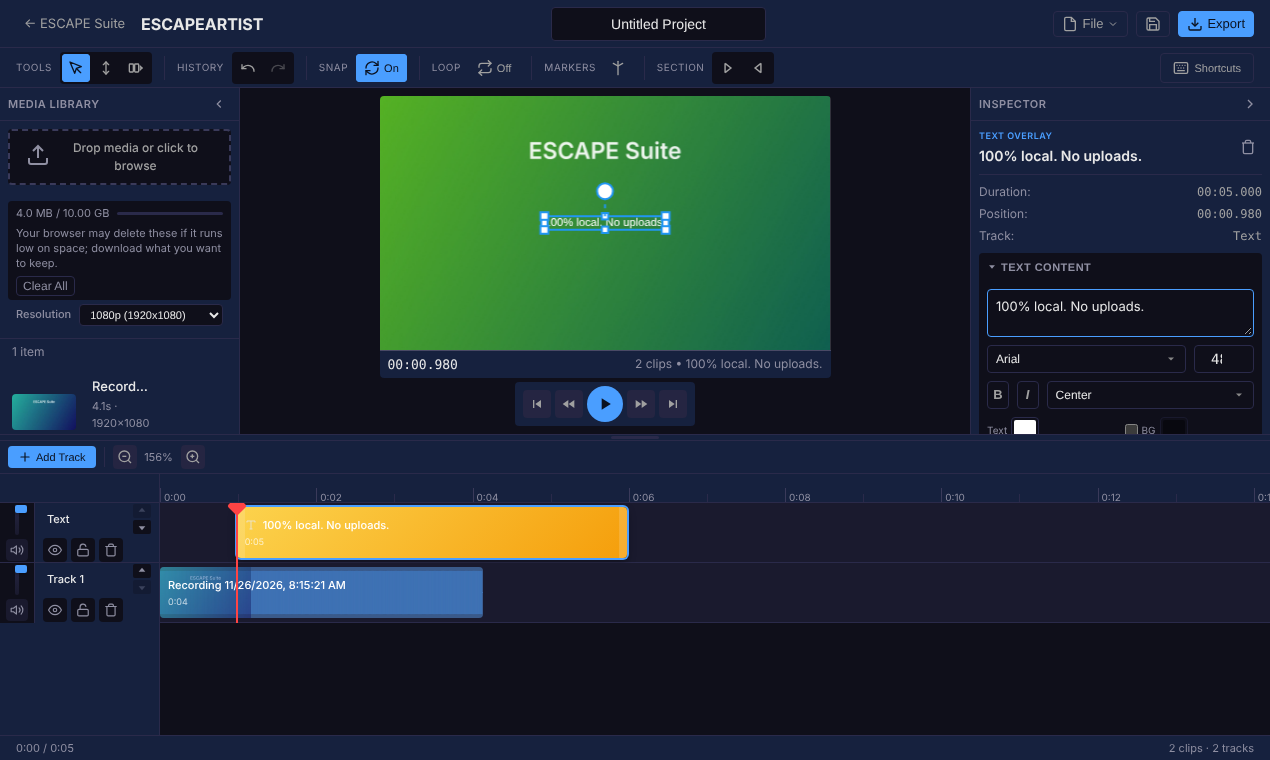
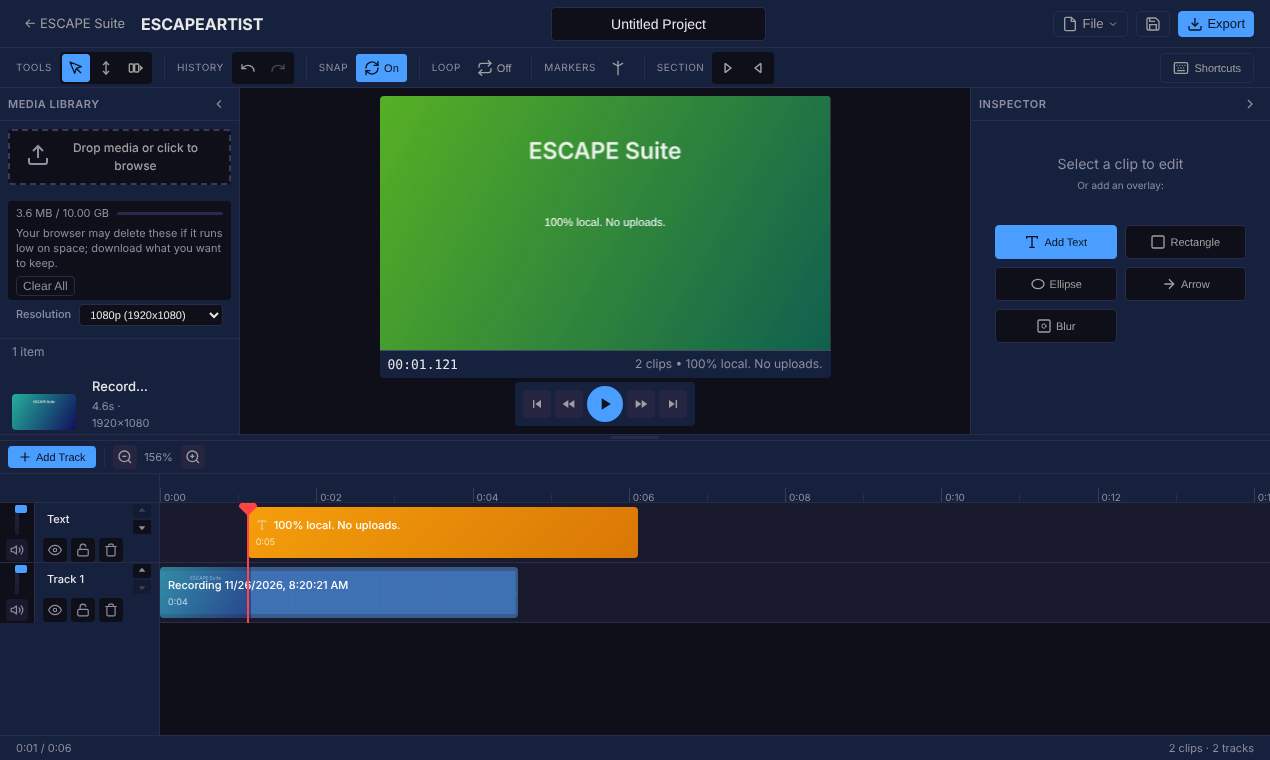
docs: review fixes to the Product Hunt kit (ESCSUITE-527)
Offline build is two HTML files, hosted-site analytics stated, claims
narrowed, overlay deselected in the editing shot.

Claude-Session: https://claude.ai/code/session_01X7igXaAzdW7dXQjKqYvasN

diff --git a/docs/launch/product-hunt.md b/docs/launch/product-hunt.md
@@ -11,9 +11,11 @@ Ticket: ESCSUITE-527.
 **Launch link:** `https://escapesuite.tech`
 
 This is the only place the link is written; everything below says "the launch link".
-escapesuite.tech already serves the apps (escapesuite.io forwards to it), but the work that
-makes it the canonical host in the site's own tags and files (Ticket: ESCSUITE-506) has not
-landed yet. Check that it has before scheduling, so the link never changes after launch.
+When you paste a draft, put the link itself where it says "the launch link".
+escapesuite.tech already serves the apps, escapesuite.io forwards to it, and the hub's
+canonical tags name it; the last references to the old host are tracked as Ticket:
+ESCSUITE-506. Check that it is finished before scheduling, so the link never changes after
+launch.
 If the launch host changes, edit the line above and nothing else.
 
 The no-signup "try it" paths, all under the launch link:
@@ -24,7 +26,8 @@ The no-signup "try it" paths, all under the launch link:
 | Record (ESCAPECRAFT) | `/craft/` |
 | Edit (ESCAPEARTIST) | `/artist/` |
 
-The offline single-file build is on the GitHub releases page; the hub links to it.
+The offline builds (one self-contained HTML file each for ESCAPECRAFT and ESCAPEARTIST)
+are on the GitHub releases page; the hub's "All downloads" link goes there.
 
 ## Form limits, as checked on 2026-11-26
 
@@ -63,11 +66,11 @@ Pick one (character counts in brackets):
 > ESCAPE Suite is a free, open-source screen recorder and video editor that runs entirely
 > in your browser. Record your screen, webcam and microphone, trim the mistakes, blur
 > anything sensitive, add captions and text, and export WebM, MP4 or GIF. Your footage
-> is never uploaded: no account, no sign-up, no server doing the work. There is also a single
-> HTML file you can copy onto an air-gapped network and open with no internet at all.
-> Apache-2.0.
+> is never uploaded: no account, no sign-up, no server doing the work. The recorder and
+> editor also come as single HTML files you can copy onto an air-gapped network and open
+> with no internet at all. Apache-2.0.
 
-(444 characters.)
+(466 characters.)
 
 ## Launch tags
 
@@ -116,21 +119,26 @@ length.
 
 > Hi Product Hunt! I'm Matty, and I made ESCAPE Suite.
 >
-> Most screen recorders want you to upload your
-> footage to someone else's server before you can trim it or share it. That's a
-> non-starter when the thing on your screen is an internal system, a customer's data, or
-> a network that isn't connected to the internet in the first place.
+> Many online screen recorders upload your footage to their own servers before you can
+> trim it or share it. That's a non-starter when the thing on your screen is an internal
+> system, a customer's data, or a network that isn't connected to the internet in the
+> first place.
 >
 > So ESCAPE Suite does all of it in the browser. ESCAPECRAFT records your screen, webcam
 > and microphone; ESCAPEARTIST trims, blurs, captions and exports to WebM, MP4 or GIF.
 > Every frame is processed on your own machine. There's no account and nothing to
-> install, and if you need it on an air-gapped network, the whole editor is one HTML file
-> you can copy across and open offline.
+> install, and if you need it on an air-gapped network, the recorder and the editor are
+> each one HTML file you can copy across and open offline.
+>
+> To be straight about what does touch a network: the hosted site counts page views and a
+> few events (like "Export Completed") with Vercel Web Analytics. Nothing you record, type
+> or export is ever sent, and the offline files send nothing at all. The Known limitations
+> page lists exactly what goes out.
 >
 > How it's built: I work with AI coding agents. They write most of the code and the
 > tests; I decide what gets built and set the rules for what ships, and every change has
-> to pass the tests and an independent review before it merges. Everything is in the open
-> on GitHub under Apache-2.0, including the tests and the changelog.
+> to pass the full test suite in CI before it merges. Everything is in the open on
+> GitHub under Apache-2.0, including the tests and the changelog.
 >
 > What I'd love feedback on:
 > - Where does recording or exporting fall over in your browser? (Firefox and Safari have
@@ -161,7 +169,7 @@ length.
 
 ### The day after
 
-- [ ] Note visits, sign-ups and GitHub stars from the launch.
+- [ ] Note visits and GitHub stars from the launch (there are no sign-ups to count).
 
 ### LinkedIn post (personal profile, first person)
 
@@ -169,7 +177,7 @@ length.
 >
 > It's a screen recorder and video editor that runs entirely in your browser. You record,
 > trim, blur and caption a how-to video, and your footage is never uploaded anywhere. There's
-> no account, and there's a single-file version for networks with no internet at all.
+> no account, and there are single-file versions for networks with no internet at all.
 >
 > I built it for the people who make training and how-to videos inside organisations
 > where "just upload it to our cloud" isn't an option.
